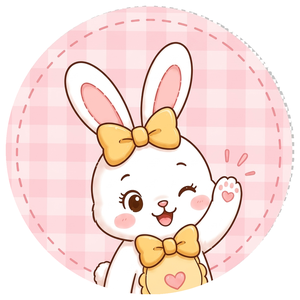
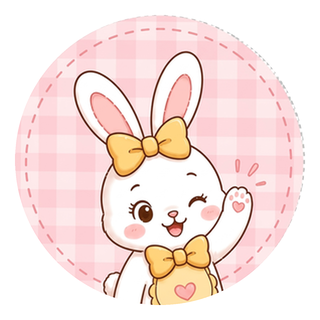
beta_01

diff --git a/build_assets.py b/build_assets.py
@@ -2,77 +2,75 @@ import os
 import math
 from PIL import Image, ImageDraw, ImageFilter, ImageOps
 
-def create_circular_mascot(input_path, output_path, size=(320, 320)):
-    """Cria a imagem da mascote em formato circular com borda e sombra suave."""
+def create_circular_mascot(input_path, output_path, size=(320, 320), border_px=5, margin_px=10):
+    """Cria a imagem da mascote em formato circular suave com borda branca e transparência nas bordas."""
     if not os.path.exists(input_path):
         print(f"Erro: Imagem {input_path} não encontrada.")
         return
         
     img = Image.open(input_path).convert("RGBA")
+    w, h = img.size
     
-    # Redimensionar para tamanho alto para anti-aliasing
     scale = 4
-    target_size = (size[0] * scale, size[1] * scale)
+    S = size[0] * scale
+    margin = margin_px * scale
+    border = border_px * scale
     
-    # Cortar centralizado (square crop)
-    min_dim = min(img.size)
-    left = (img.width - min_dim) // 2
-    top = (img.height - min_dim) // 2
-    img = img.crop((left, top, left + min_dim, top + min_dim))
-    img = img.resize(target_size, Image.Resampling.LANCZOS)
+    content_d = S - (margin * 2) - (border * 2)
+    crop_m = int(min(w, h) * 0.02)
+    img_cropped = img.crop((crop_m, crop_m, w - crop_m, h - crop_m))
+    img_resized = img_cropped.resize((content_d, content_d), Image.Resampling.LANCZOS)
     
-    # Criar máscara circular perfeitamente suave
-    mask = Image.new("L", target_size, 0)
-    draw_mask = ImageDraw.Draw(mask)
-    draw_mask.ellipse((0, 0, target_size[0], target_size[1]), fill=255)
+    high_canvas = Image.new("RGBA", (S, S), (0, 0, 0, 0))
     
-    # Aplicar a máscara circular
-    circular_img = Image.new("RGBA", target_size, (0, 0, 0, 0))
-    circular_img.paste(img, (0, 0), mask=mask)
+    border_d = content_d + (border * 2)
+    border_pos = margin
+    border_mask = Image.new("L", (S, S), 0)
+    draw_bm = ImageDraw.Draw(border_mask)
+    draw_bm.ellipse((border_pos, border_pos, border_pos + border_d - 1, border_pos + border_d - 1), fill=255)
     
-    # Adicionar borda branca/suave em volta
-    border_width = 8 * scale
-    final_canvas_size = (target_size[0] + border_width * 2, target_size[1] + border_width * 2)
-    final_canvas = Image.new("RGBA", final_canvas_size, (0, 0, 0, 0))
+    white_fill = Image.new("RGBA", (S, S), (255, 255, 255, 255))
+    high_canvas.paste(white_fill, (0, 0), mask=border_mask)
     
-    # Borda branca circular
-    border_mask = Image.new("L", final_canvas_size, 0)
-    draw_bmask = ImageDraw.Draw(border_mask)
-    draw_bmask.ellipse((0, 0, final_canvas_size[0], final_canvas_size[1]), fill=255)
+    inner_mask = Image.new("L", (content_d, content_d), 0)
+    draw_im = ImageDraw.Draw(inner_mask)
+    draw_im.ellipse((0, 0, content_d - 1, content_d - 1), fill=255)
     
-    border_fill = Image.new("RGBA", final_canvas_size, (255, 255, 255, 255))
-    final_canvas.paste(border_fill, (0, 0), mask=border_mask)
-    final_canvas.paste(circular_img, (border_width, border_width), mask=circular_img)
+    content_pos = margin + border
+    high_canvas.paste(img_resized, (content_pos, content_pos), mask=inner_mask)
     
-    # Reduzir para tamanho final com antialiasing
-    final_img = final_canvas.resize(size, Image.Resampling.LANCZOS)
+    final_img = high_canvas.resize(size, Image.Resampling.LANCZOS)
     final_img.save(output_path, "PNG")
-    print(f"Mascote circular salva em: {output_path}")
+    print(f"Mascote circular salva com sucesso em: {output_path}")
 
 def draw_palette_logo(size=128, bg_color=(235, 175, 185), icon_color=(100, 45, 55)):
-    """Cria a imagem do ícone de paleta para o topo da barra lateral."""
-    img = Image.new("RGBA", (size * 4, size * 4), (0, 0, 0, 0))
+    """Cria a imagem do ícone de paleta para o topo da barra lateral com margem anti-aliasing."""
+    scale = 4
+    S = size * scale
+    margin = 8 * scale
+    d = S - (margin * 2)
+    
+    img = Image.new("RGBA", (S, S), (0, 0, 0, 0))
     draw = ImageDraw.Draw(img)
     
     # Fundo circular
-    draw.ellipse((0, 0, size * 4, size * 4), fill=bg_color)
+    draw.ellipse((margin, margin, margin + d - 1, margin + d - 1), fill=bg_color)
     
     # Paleta de pintura
-    # Corpo da paleta (elipse levemente rotacionada/offset)
-    p_cx, p_cy = size * 2, size * 2.05
-    p_rx, p_ry = size * 1.1, size * 0.85
+    p_cx, p_cy = S / 2, S * 0.51
+    p_rx, p_ry = d * 0.275, d * 0.21
     draw.ellipse((p_cx - p_rx, p_cy - p_ry, p_cx + p_rx, p_cy + p_ry), fill=icon_color)
     
     # Buraco do polegar na paleta (transparente)
-    h_cx, h_cy = size * 1.5, size * 2.3
-    h_r = size * 0.22
+    h_cx, h_cy = S * 0.375, S * 0.575
+    h_r = d * 0.055
     draw.ellipse((h_cx - h_r, h_cy - h_r, h_cx + h_r, h_cy + h_r), fill=bg_color)
     
     # Manchas de tinta coloridas na paleta
     dots = [
-        (size * 2.3, size * 1.5, size * 0.16, (255, 255, 255)),
-        (size * 2.6, size * 1.85, size * 0.14, (255, 255, 255)),
-        (size * 2.4, size * 2.3, size * 0.15, (255, 255, 255)),
+        (S * 0.575, S * 0.375, d * 0.04, (255, 255, 255)),
+        (S * 0.65, S * 0.46, d * 0.035, (255, 255, 255)),
+        (S * 0.60, S * 0.575, d * 0.0375, (255, 255, 255)),
     ]
     for dx, dy, dr, color in dots:
         draw.ellipse((dx - dr, dy - dr, dx + dr, dy + dr), fill=color)

diff --git a/views/janela_principal.py b/views/janela_principal.py
@@ -1,8 +1,9 @@
+import sys
 import os
 import customtkinter as ctk
 from tkinter import messagebox
 from PIL import Image
-from config.settings import PALETTE
+from config.settings import PALETTE, get_base_dir, get_assets_dir
 from components.sidebar_button import SidebarButton
 from views.boas_vindas_view import BoasVindasView
 from views.generic_module_view import GenericModuleView
@@ -28,8 +29,8 @@ class JanelaFlorDeCerejeira(ctk.CTk):
         self.bind("<F11>", self.alternar_fullscreen)
         self.bind("<Escape>", lambda e: self.attributes("-fullscreen", False))
         
-        # Diretório base do projeto (raiz)
-        self.base_dir = os.path.dirname(os.path.dirname(os.path.abspath(__file__)))
+        # Diretório base do projeto (raiz ou diretório do .exe se congelado)
+        self.base_dir = get_base_dir()
         
         # Garantir assets
         self.carregar_assets()
@@ -53,13 +54,16 @@ class JanelaFlorDeCerejeira(ctk.CTk):
 
     def carregar_assets(self):
         """Carrega e prepara todas as imagens e ícones para o CustomTkinter."""
-        assets_dir = os.path.join(self.base_dir, "assets")
+        assets_dir = get_assets_dir(self.base_dir)
         icons_dir = os.path.join(assets_dir, "icons")
         
         # Se os assets não existirem, gerar via script
         if not os.path.exists(os.path.join(assets_dir, "hanna_mascot.png")):
-            from build_assets import generate_all_assets
-            generate_all_assets(self.base_dir)
+            try:
+                from build_assets import generate_all_assets
+                generate_all_assets(self.base_dir)
+            except Exception:
+                pass
             
         # Carregar logo da loja
         logo_path = os.path.join(assets_dir, "logo_palette.png")

diff --git a/services/pdf_service.py b/services/pdf_service.py
@@ -118,7 +118,8 @@ class PDFService:
             )
 
             # --- Cabeçalho com Logo, Marca e Mascote ---
-            assets_dir = os.path.join(base_dir, "assets")
+            from config.settings import get_assets_dir
+            assets_dir = get_assets_dir(base_dir)
             logo_path = os.path.join(assets_dir, "logo_palette.png")
             mascot_path = os.path.join(assets_dir, "hanna_mascot.png")
 
@@ -244,11 +245,12 @@ class PDFService:
         from pypdf import PdfReader, PdfWriter
         from reportlab.pdfgen import canvas
         from reportlab.lib.colors import HexColor
+        from config.settings import get_base_dir, get_assets_dir
 
         if base_dir is None:
-            base_dir = os.path.dirname(os.path.dirname(os.path.abspath(__file__)))
+            base_dir = get_base_dir()
 
-        template_path = os.path.join(base_dir, "assets", "pdf_base_orcamento.pdf")
+        template_path = os.path.join(get_assets_dir(base_dir), "pdf_base_orcamento.pdf")
 
         if not os.path.exists(template_path):
             messagebox.showerror("Erro de Arquivo", f"O modelo base de PDF não foi encontrado em:\n{template_path}", parent=parent_window)

diff --git a/config/settings.py b/config/settings.py
@@ -1,9 +1,28 @@
+import sys
+import os
 import customtkinter as ctk
+
+def get_base_dir():
+    """Retorna o diretório base para gravação de dados (onde o .exe está localizado se congelado, ou a raiz do projeto)."""
+    if getattr(sys, 'frozen', False):
+        return os.path.dirname(sys.executable)
+    return os.path.dirname(os.path.dirname(os.path.abspath(__file__)))
+
+def get_assets_dir(base_dir=None):
+    """Retorna o diretório de assets estáticos (prioriza sys._MEIPASS quando congelado)."""
+    if getattr(sys, 'frozen', False):
+        meipass_assets = os.path.join(getattr(sys, '_MEIPASS', ''), "assets")
+        if os.path.exists(meipass_assets):
+            return meipass_assets
+    if base_dir is None:
+        base_dir = get_base_dir()
+    return os.path.join(base_dir, "assets")
 
 # Configurações globais de aparência do CustomTkinter
 def setup_theme():
     ctk.set_appearance_mode("Light")
     ctk.set_default_color_theme("blue")
+
 
 # Cores da Paleta "Flor de Cerejeira" com suporte a Modo Claro e Modo Escuro (Light, Dark)
 PALETTE = {

diff --git a/services/pedidos_service.py b/services/pedidos_service.py
@@ -7,7 +7,8 @@ class PedidosService:
     
     def __init__(self, base_dir=None, estoque_service=None):
         if base_dir is None:
-            base_dir = os.path.dirname(os.path.dirname(os.path.abspath(__file__)))
+            from config.settings import get_base_dir
+            base_dir = get_base_dir()
         self.base_dir = base_dir
         self.data_dir = os.path.join(base_dir, "data")
         self.data_file = os.path.join(self.data_dir, "pedidos.json")

diff --git a/services/financeiro_service.py b/services/financeiro_service.py
@@ -12,7 +12,8 @@ class FinanceiroService:
 
     def __init__(self, base_dir=None):
         if base_dir is None:
-            base_dir = os.path.dirname(os.path.dirname(os.path.abspath(__file__)))
+            from config.settings import get_base_dir
+            base_dir = get_base_dir()
         self.data_dir = os.path.join(base_dir, "data")
         self.data_file = os.path.join(self.data_dir, "financeiro.json")
         self.garantir_arquivo_dados()

diff --git a/services/clientes_service.py b/services/clientes_service.py
@@ -6,7 +6,8 @@ class ClientesService:
     
     def __init__(self, base_dir=None):
         if base_dir is None:
-            base_dir = os.path.dirname(os.path.dirname(os.path.abspath(__file__)))
+            from config.settings import get_base_dir
+            base_dir = get_base_dir()
         self.data_dir = os.path.join(base_dir, "data")
         self.data_file = os.path.join(self.data_dir, "clientes.json")
         self.garantir_arquivo_dados()

diff --git a/services/estoque_service.py b/services/estoque_service.py
@@ -6,7 +6,8 @@ class EstoqueService:
     
     def __init__(self, base_dir=None):
         if base_dir is None:
-            base_dir = os.path.dirname(os.path.dirname(os.path.abspath(__file__)))
+            from config.settings import get_base_dir
+            base_dir = get_base_dir()
         self.data_dir = os.path.join(base_dir, "data")
         self.data_file = os.path.join(self.data_dir, "estoque.json")
         self.garantir_arquivo_dados()

diff --git a/services/agenda_service.py b/services/agenda_service.py
@@ -8,7 +8,8 @@ class AgendaService:
     
     def __init__(self, base_dir=None):
         if base_dir is None:
-            base_dir = os.path.dirname(os.path.dirname(os.path.abspath(__file__)))
+            from config.settings import get_base_dir
+            base_dir = get_base_dir()
         self.base_dir = base_dir
         self.data_dir = os.path.join(base_dir, "data")
         self.data_file = os.path.join(self.data_dir, "agenda_notas.json")
